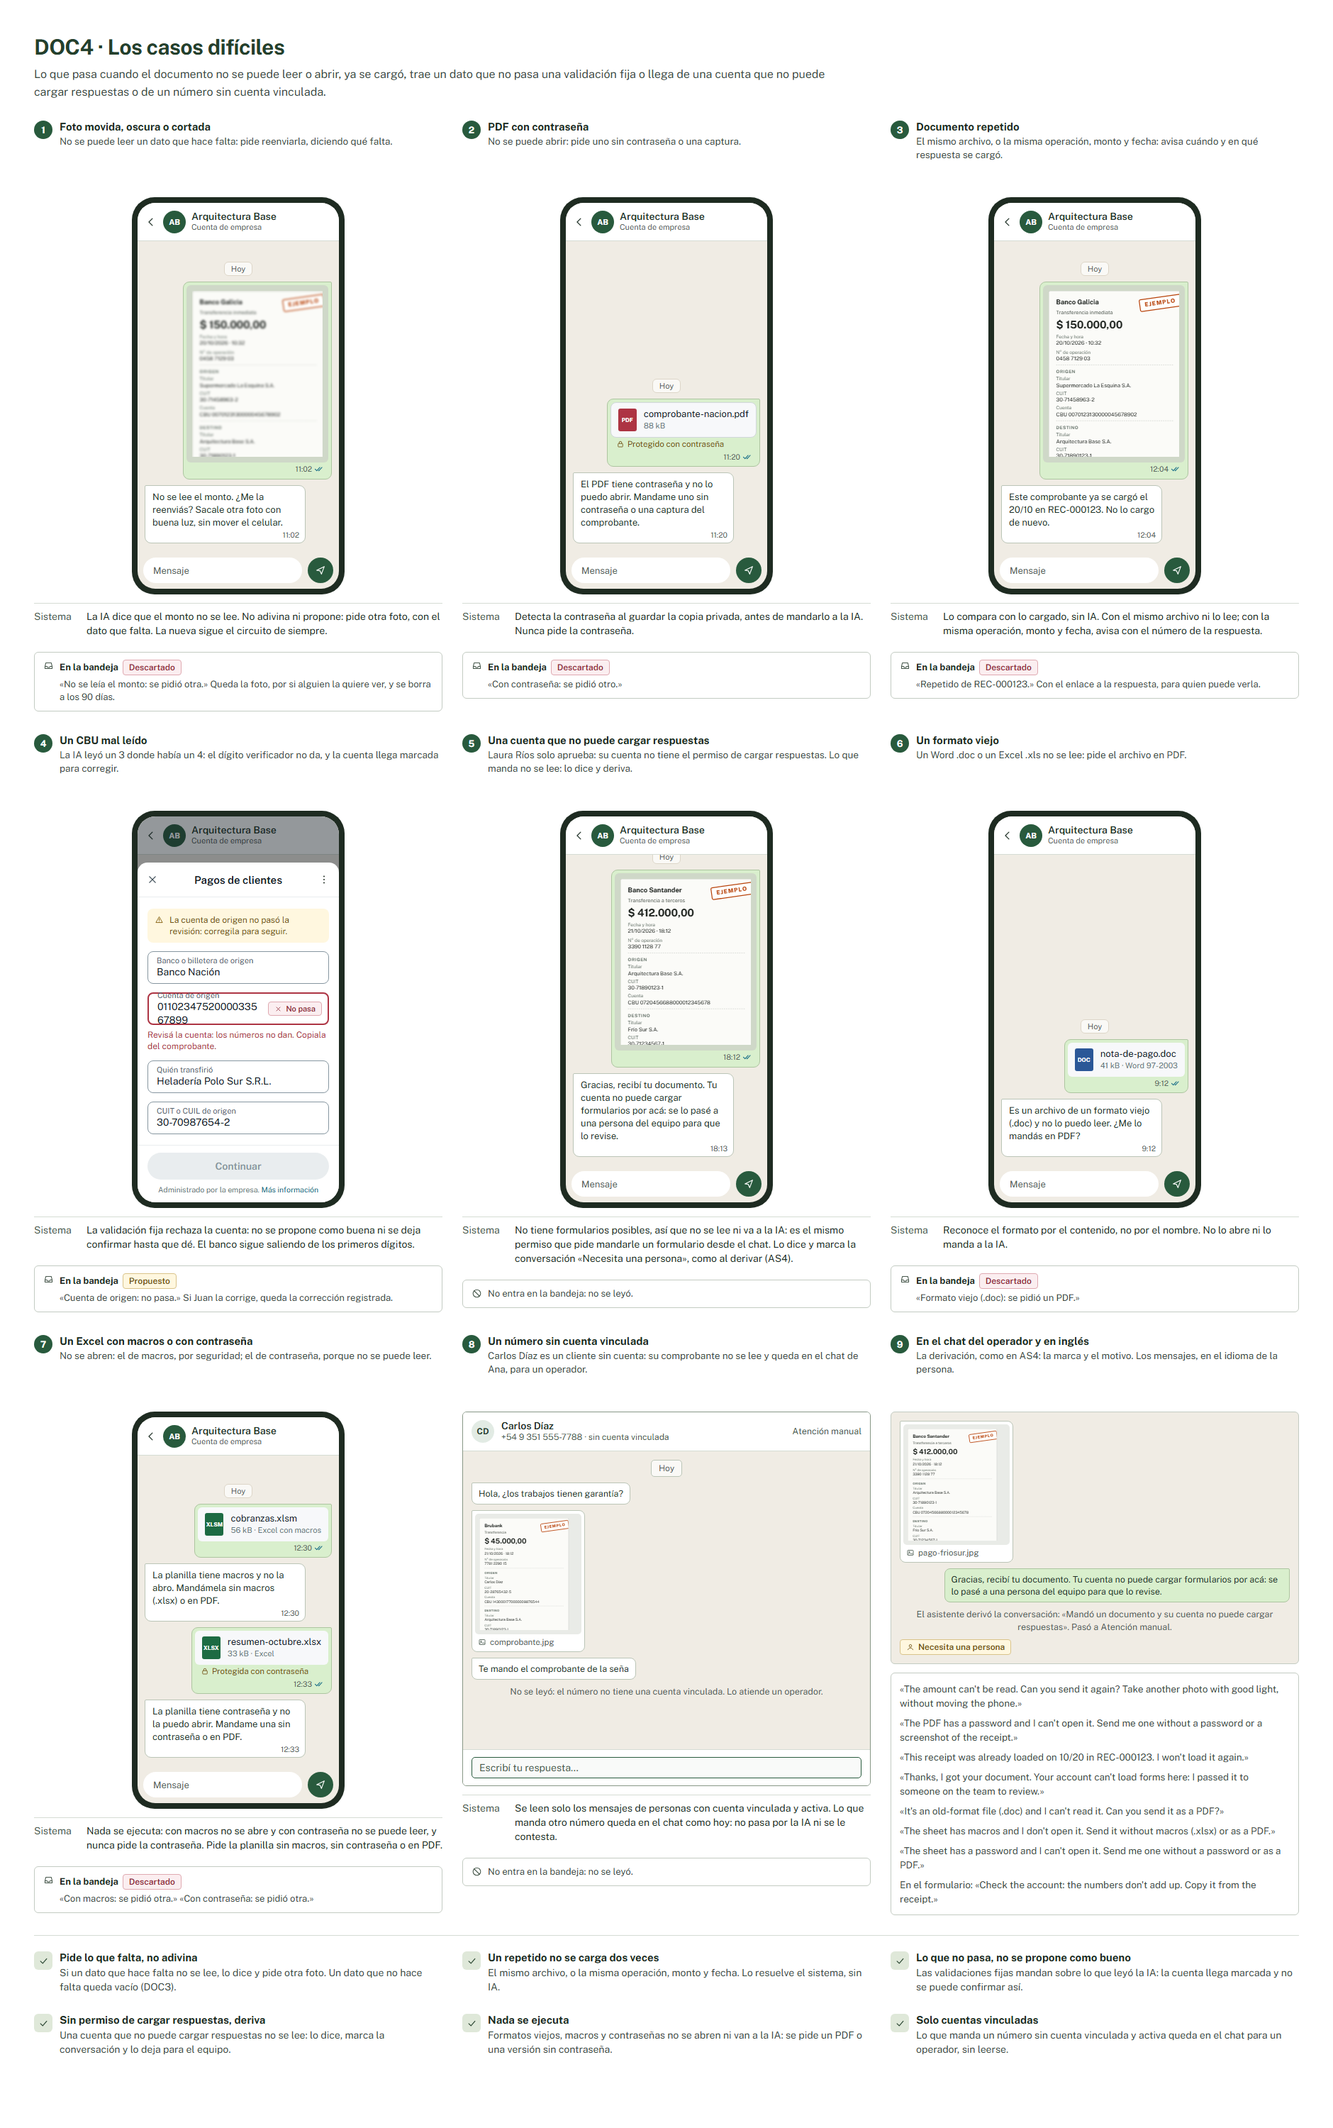
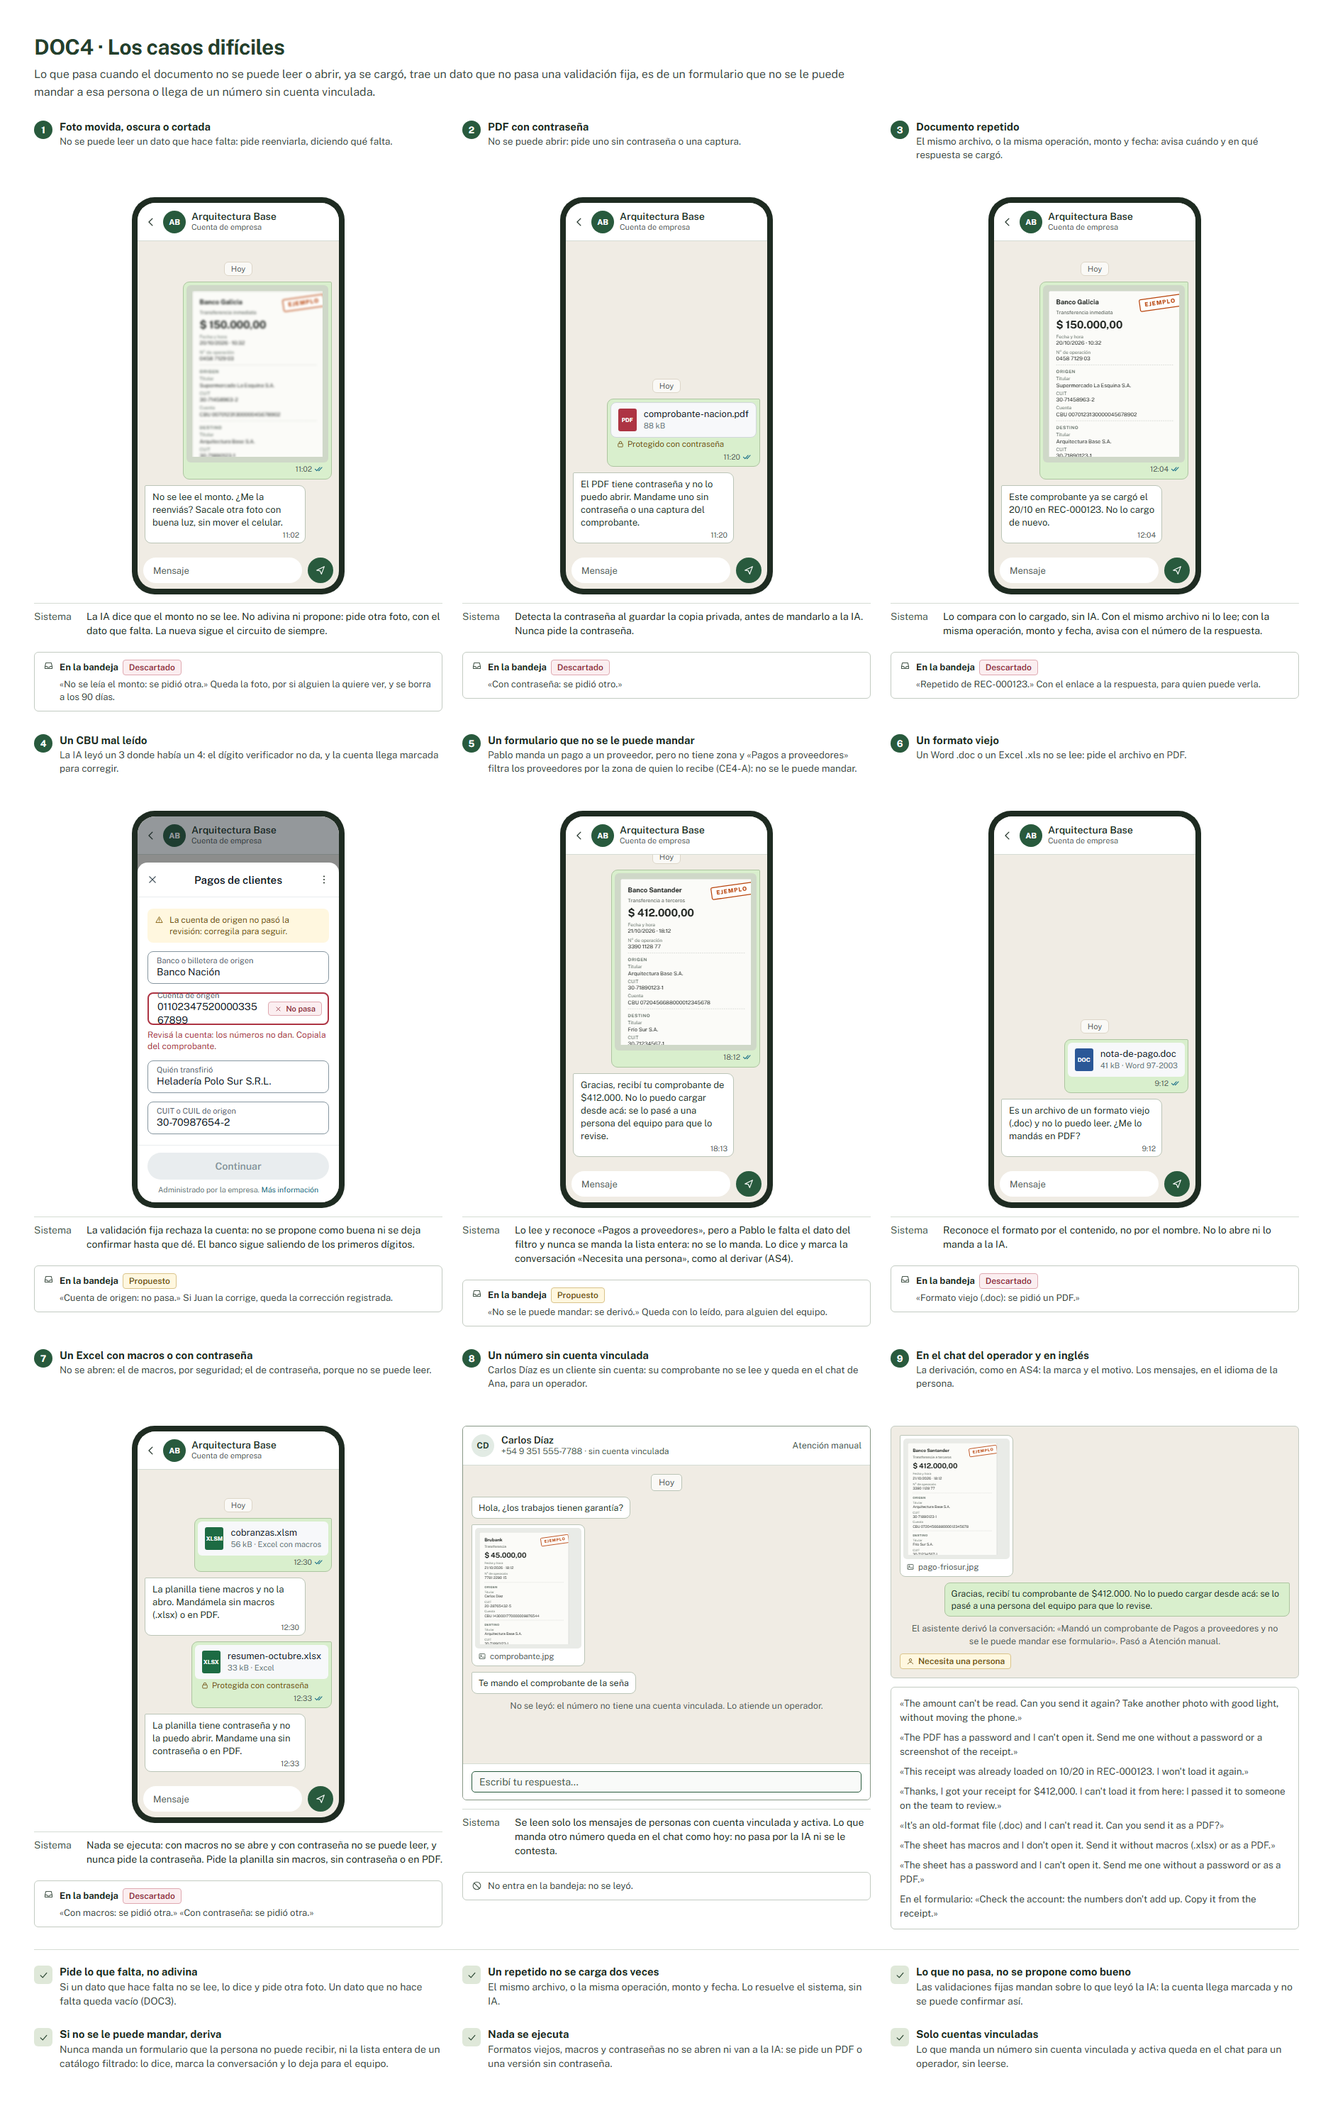
docs(documentos): dejar DOC2 y DOC4 como quedaron en el plan
DOC4 vuelve a mostrar el formulario que no se le puede mandar a la persona
(Pablo, sin zona, con «Pagos a proveedores»); la cuenta sin permiso de
cargar respuestas queda en el plan y no se dibuja. «Para revisar acá» junta
los propuestos vencidos y las filas que pasaron el tope. Las capturas de
DOC2 y DOC4 son las de la versión 119 del lienzo.

diff --git a/docs/design/documentos.md b/docs/design/documentos.md
@@ -1,7 +1,8 @@
 # Documentos por WhatsApp: tableros elegidos
 
 Fecha: **2026-10-22**. **Elegidos DOC5-A y DOC7-A, con DOC1–DOC4 y DOC6**, de la versión 116 del lienzo; la 117 los marca
-y suma las correcciones al elegir (abajo), y la 118 agranda DOC5-A para que entren sus notas. Por programar.
+y suma las correcciones al elegir (abajo), la 118 agranda DOC5-A para que entren sus notas y la 119 deja DOC2 y DOC4 como
+quedaron en el plan. Por programar.
 
 Origen: la sección «Documentos por WhatsApp · biblioteca, lectura con IA, bandeja y tablero» de la página «Formularios por
 WhatsApp» del Artifact [Sistema visual — ArquitecturaBase](https://claude.ai/artifact/HPbmDPLnr8JZ9TxevtTqJJ). Como el
@@ -15,15 +16,16 @@ lo muestra dentro de las pantallas reales y tiene el circuito DOC en «Recorrido
 
 DOC5 y DOC7 tenían dos conceptos. **Se eligieron DOC5-A**, la bandeja como planilla con el documento en un panel al
 costado, **y DOC7-A**, el tablero de tarjetas que se arma solo. DOC5-B, la cola de revisión, y DOC7-B, un informe por
-pregunta, quedan en el lienzo como las alternativas que no se eligieron. DOC1–DOC4 y DOC6 tenían un solo concepto y valen
-para los elegidos: el aviso de los documentos parecidos de DOC6 va arriba de la planilla de DOC5-A.
+pregunta, son las alternativas que no se eligieron: se sacaron del lienzo para hacer lugar y siguen en el repo del
+generador. DOC1–DOC4 y DOC6 tenían un solo concepto y valen para los elegidos: el aviso de los documentos parecidos de DOC6
+va arriba de la planilla de DOC5-A.
 
 | Captura | Qué define |
 | --- | --- |
 | [DOC1 · La biblioteca y la lectura](evidence/documentos/doc1-la-biblioteca-y-la-lectura.png) | **Elegido el 2026-10-22.** «Biblioteca», una pantalla nueva en Gestión de formularios, junto a Diseñar formularios: los formularios estándar del producto, hoy «Comprobante de transferencia», y los de las etapas siguientes como «Próximamente», sin acción. Cada estándar dice qué lee, sus validaciones fijas, su versión y en qué formularios propios está; se filtra por todos, disponibles o próximamente y se busca por nombre, en la dirección. «Agregar» pide el nombre y el prefijo y crea una copia propia en borrador; se puede agregar más de una vez («Pagos a proveedores» es otra copia del mismo estándar). En el editor, la sección **«Lectura de documentos»**: prenderla; de qué estándar y versión viene; «Cómo reconocerlo», la descripción para la IA, donde lo propio (de quién es la cuenta de destino) separa dos copias; los ejemplos, que suman las correcciones de la bandeja sin entrenar ningún modelo; qué pregunta recibe cada dato (cambiarle el nombre a una no corta la lectura; un dato sin pregunta no se lee); las validaciones fijas del estándar, con candado (los dígitos del CBU, el CVU y el CUIT; el banco sale de los primeros dígitos de la cuenta, con la tabla del BCRA como datos); el cruce con catálogos (Cliente por el CUIT de origen, en Clientes); los duplicados y cómo viene leyendo, por formulario y por dato. Un formulario propio sin estándar usa el mismo mecanismo, sin candados. Prender o cambiar la lectura se guarda en el borrador y sale al publicar. Pide «Diseñar formularios». |
-| [DOC2 · Los tres casos y los otros formatos](evidence/documentos/doc2-los-tres-casos-y-los-otros-formatos.png) | **Elegido el 2026-10-22.** Juan manda el comprobante por WhatsApp, con texto o sin él. Se lee solo lo de cuentas vinculadas y activas con permiso de cargar respuestas, y se clasifica entre los formularios con lectura que esa persona puede completar. **Seguro:** «Recibí un comprobante de transferencia de $150.000 del Galicia. ¿Lo cargo?» con «Abrir formulario», prellenado y con el comprobante adjunto. **Duda:** «¿Qué es este documento?» con hasta 3 botones; con dos posibles, el tercero es «Otro», y con la elección sigue como el seguro. **No lo reconoce:** «No reconocí este documento. ¿Qué querés cargar con él?» con la lista de lo que esa persona puede completar y «Otro», que lo deja «Sin clasificar» y lo anota en Formularios que faltan. El sistema guarda la foto como copia privada y valida sin IA el CBU, el CUIT y los duplicados; en el chat del operador el documento es un mensaje más, con «Por qué lo propuso» o «Por qué preguntó» debajo, como en AS4. **Los otros formatos:** un PDF (se lee entero, hasta el tope), un Word y un Excel con varias filas, donde cada fila es una carga; la ubicación y el contacto que se comparten no pasan por la IA y completan las preguntas elegidas en el editor del formulario abierto («Dirección de entrega», «Recibió» y «Teléfono de quien recibe» en «Registrar entrega»), que se vuelve a mandar. Los mensajes van en el idioma de la persona. |
+| [DOC2 · Los tres casos y los otros formatos](evidence/documentos/doc2-los-tres-casos-y-los-otros-formatos.png) | **Elegido el 2026-10-22.** Juan manda el comprobante por WhatsApp, con texto o sin él. Se lee solo lo de cuentas vinculadas y activas con permiso de cargar respuestas, y se clasifica entre los formularios con lectura que esa persona puede completar; si el que encaja no se le puede mandar, lo dice y deriva (DOC4). **Seguro:** «Recibí un comprobante de transferencia de $150.000 del Galicia. ¿Lo cargo?» con «Abrir formulario», prellenado y con el comprobante adjunto. **Duda:** «¿Qué es este documento?» con hasta 3 botones; con dos posibles, el tercero es «Otro», y con la elección sigue como el seguro. **No lo reconoce:** «No reconocí este documento. ¿Qué querés cargar con él?» con la lista de lo que esa persona puede completar y «Otro», que lo deja «Sin clasificar» y lo anota en Formularios que faltan. El sistema guarda la foto como copia privada y valida sin IA el CBU, el CUIT y los duplicados; en el chat del operador el documento es un mensaje más, con «Por qué lo propuso» o «Por qué preguntó» debajo, como en AS4. **Los otros formatos:** un PDF (se lee entero, hasta el tope), un Word y un Excel con varias filas, donde cada fila es una carga; la ubicación y el contacto que se comparten no pasan por la IA y completan las preguntas elegidas en el editor del formulario abierto («Dirección de entrega», «Recibió» y «Teléfono de quien recibe» en «Registrar entrega»), que se vuelve a mandar. Los mensajes van en el idioma de la persona. |
 | [DOC3 · El formulario prellenado](evidence/documentos/doc3-el-formulario-prellenado.png) | **Elegido el 2026-10-22.** El Flow de siempre, completo con lo leído y el aviso «Lo completamos con el comprobante que mandaste. Revisá lo marcado antes de confirmar.»: lo dudoso, con «Revisá» y el borde de atención; lo que no se leyó, vacío con «No se leyó» (si la pregunta es obligatoria, no deja confirmar); el comprobante, ya adjunto en su pregunta de documento, con «Cambiar documento». Al confirmar se vuelven a revisar el CBU, el CVU, el CUIT y los duplicados con lo corregido; lo que no pasa no se guarda y dice por qué («Revisá la cuenta: los números no dan. Copiala del comprobante.»). Cada corrección queda registrada: el dato propuesto, el confirmado y quién. En el chat, la tarjeta de siempre, con el comprobante como archivo de la respuesta; en el detalle, la lectura: qué reconoció, qué se corrigió o completó y qué se validó sin IA. |
-| [DOC4 · Los casos difíciles](evidence/documentos/doc4-los-casos-dificiles.png) | **Elegido el 2026-10-22.** Una foto movida, oscura o cortada: no adivina, pide otra diciendo qué dato falta. Un PDF con contraseña: no se abre ni se pide la contraseña; pide uno sin contraseña o una captura. Un repetido (el mismo archivo, o la misma operación, monto y fecha): avisa cuándo y en qué respuesta se cargó, sin IA. Un CBU mal leído: la validación fija lo rechaza y la cuenta llega marcada; no se puede confirmar así. **Una cuenta que no puede cargar respuestas**, como Laura, que solo aprueba: no tiene formularios posibles, así que no se lee ni va a la IA; contesta «Gracias, recibí tu documento. Tu cuenta no puede cargar formularios por acá: se lo pasé a una persona del equipo para que lo revise.», deriva la conversación como en AS4 y no entra en la bandeja. Un Word o un Excel de formato viejo, un Excel con macros o con contraseña: no se abren ni van a la IA, y se pide un PDF o una versión sin macros ni contraseña. **Un número sin cuenta vinculada**, como Carlos Díaz: no se lee ni se le contesta; queda en el chat para un operador, con la línea «No se leyó: el número no tiene una cuenta vinculada. Lo atiende un operador.», y no entra en la bandeja. |
+| [DOC4 · Los casos difíciles](evidence/documentos/doc4-los-casos-dificiles.png) | **Elegido el 2026-10-22.** Una foto movida, oscura o cortada: no adivina, pide otra diciendo qué dato falta. Un PDF con contraseña: no se abre ni se pide la contraseña; pide uno sin contraseña o una captura. Un repetido (el mismo archivo, o la misma operación, monto y fecha): avisa cuándo y en qué respuesta se cargó, sin IA. Un CBU mal leído: la validación fija lo rechaza y la cuenta llega marcada; no se puede confirmar así. **Un formulario que no se le puede mandar**, como «Pagos a proveedores» a Pablo, que no tiene zona: el documento se lee y se reconoce, pero a la persona le falta el dato con el que se filtra el catálogo (CE4-A) y nunca se manda la lista entera; contesta «Gracias, recibí tu comprobante de $412.000. No lo puedo cargar desde acá: se lo pasé a una persona del equipo para que lo revise.», deriva la conversación como en AS4 y el documento queda propuesto, con lo leído, para alguien del equipo. Un Word o un Excel de formato viejo, un Excel con macros o con contraseña: no se abren ni van a la IA, y se pide un PDF o una versión sin macros ni contraseña. **Un número sin cuenta vinculada**, como Carlos Díaz: no se lee ni se le contesta; queda en el chat para un operador, con la línea «No se leyó: el número no tiene una cuenta vinculada. Lo atiende un operador.», y no entra en la bandeja. |
 | [DOC5-A · La planilla con panel](evidence/documentos/doc5-a-la-planilla-con-panel.png) | **Elegido el 2026-10-22.** «Documentos recibidos», debajo de Formularios en el panel de Gestión de formularios, con cuántos esperan a alguien del equipo. Una planilla como la de respuestas: cada documento es una fila con su miniatura, cuándo llegó, quién lo mandó, el formulario, los datos leídos que sirven para encontrarlo (monto, banco o CUIT), el estado y la respuesta. Se busca por monto (con o sin puntos), CUIT u operación, también en lo que no se cargó; se filtra por formulario, quién lo mandó, cuándo llegó y estado (propuesto, sin clasificar, confirmado o descartado, con cuántos hay), y todo vive en la dirección, con la página y el documento abierto. Un sin clasificar o un descartado se borra a los 90 días, con su lectura, y su fila dice cuándo. El documento se abre en un panel al costado, como la vista rápida D2: arriba el documento (acercar, girar, páginas y descargar); abajo el formulario que reconoció la IA, con su seguridad (cambiarlo vuelve a leer los datos para ese formulario), los datos, el historial, «Descartar», con confirmación y que se puede volver a abrir, y «Pasar al formulario», que guarda la respuesta con lo revisado, deja registradas las correcciones y pasa el documento a «Confirmado», con su número. ↑ ↓ recorren la planilla. **Para revisar acá** queda un propuesto que venció sin que la persona lo confirmara en WhatsApp, como el comprobante del Macro que mandó Pablo. En el celular, la tabla se desplaza de costado y el documento abre en su pantalla, con las acciones abajo. Dos permisos nuevos: «Ver documentos recibidos» y «Revisar documentos» (corregir, pasar al formulario y descartar); con solo ver, el documento y sus datos se ven sin poder cambiarlos. La respuesta dice en su origen de qué documento salió y quién la revisó. |
 | [DOC6 · Armar formulario con la IA](evidence/documentos/doc6-armar-formulario-con-la-ia.png) | **Elegido el 2026-10-22.** Para lo que no encaja en ningún formulario: desde el aviso de los parecidos («Llegaron 5 documentos parecidos que no encajan en ningún formulario: tickets de combustible. ¿Armamos un formulario?») o desde un sin clasificar, en su panel. La IA propone el formulario entero: el nombre, el prefijo, el texto del botón, «Cómo reconocerlo» y una pregunta por cada dato que se repite, con su tipo y lo que leyó en el primero para comparar; se cambian, se quitan o se suman, con los documentos que lo originaron a la vista. Si se parece a un estándar de la biblioteca, lo sugiere antes («Agregar el estándar» o «Armar igual con la IA»). «Crear borrador» lo crea con la lectura prendida y abre el editor; se publica como cualquiera, con su comprobación, y la IA nunca publica ni aprueba (ADR 0019). Al publicar, esos documentos quedan propuestos en la bandeja y los próximos se reconocen solos. Mientras arma se puede salir y volver; si falla, no queda nada a medias. Pide «Revisar documentos» y «Diseñar formularios»; con uno solo, el botón no aparece. |
 | [DOC7-A · Tarjetas armadas solas](evidence/documentos/doc7-a-tarjetas-armadas-solas.png) | **Elegido el 2026-10-22.** La pestaña «Tablero», junto a Respuestas en la página de cada formulario, con el permiso de leer respuestas: quien solo aprueba no la ve. Los filtros son los de la planilla (recibida, quién cargó, estado y cualquier pregunta), viven en la dirección y se comparten con Respuestas; lo que va por período se agrupa por día, semana o mes. Arriba, los números: cuántas llegaron y, de cada pregunta de número o monto, total, promedio, mínimo y máximo, contra el período anterior. Abajo, una tarjeta por gráfico, armada sola con los tipos de las preguntas: cuántas llegaron por período (los días sin actividad, en un tono suave), los montos por período, el reparto de cada pregunta de elegir o de catálogo, quién cargó cuánto y por estado. «Agregar gráfico» ofrece las preguntas que no tienen tarjeta con lo que se puede contar de cada una, y «Volver al automático» lo deja como al principio. El menú de cada tarjeta cambia la cuenta, la muestra como tabla o la quita. Los ajustes son de cada persona, como las columnas de la planilla, y no hay tableros en el código: salen de los tipos de las preguntas y de los valores con tipo de las respuestas. En el celular, una tarjeta debajo de la otra y los filtros en un botón. |
@@ -44,13 +46,16 @@ El plan no lo decía; se resolvió con la opción más simple y quedó confirmad
 
 ## Correcciones al elegir
 
-Al elegir se corrigió quién se lee y el ejemplo de «para revisar acá». La elección no cambia; los tableros (versión 117 del
+Al elegir se corrigió quién se lee y el ejemplo de «para revisar acá». La elección no cambia; los tableros (versión 119 del
 lienzo) y la maqueta ya lo muestran, y las capturas de arriba son las corregidas:
 
 - **Quién se lee (DOC2 y DOC4).** Solo lo de cuentas vinculadas y activas con el permiso de cargar respuestas, el mismo que
-  pide mandarles un formulario desde el chat. La cuenta que no lo tiene es la de alguien que solo aprueba, como Laura: no se
-  lee, lo dice y deriva. El formulario reconocido que no se le puede mandar a una persona (por ejemplo, porque le falta el
-  dato con el que se filtra un catálogo) es otro caso del plan, que no se dibuja: también lo dice y deriva.
+  pide mandarles un formulario desde el chat. Una cuenta sin ese permiso no tiene formularios posibles: no se lee, lo dice y
+  deriva; está en el plan y no se dibuja.
+- **Un formulario que no se le puede mandar (DOC4).** Es un caso aparte: a Pablo, sin zona, no se le puede mandar «Pagos a
+  proveedores», que filtra los proveedores por la zona de quien lo recibe. Su documento se lee y se reconoce; lo dice y
+  deriva, y nunca se manda la lista entera.
 - **Un número sin cuenta vinculada (DOC4).** Carlos Díaz queda en el chat de Ana, sin leerse, para un operador.
-- **Para revisar acá (DOC5-A).** El ejemplo es un propuesto que venció sin que la persona lo confirmara en WhatsApp: el
-  comprobante del Macro de Pablo. Lo pasa al formulario alguien con «Revisar documentos».
+- **Para revisar acá (DOC5-A).** Junta los propuestos que vencieron sin que la persona los confirmara en WhatsApp, como el
+  comprobante del Macro de Pablo, y las filas de una planilla que pasaron el tope. Los pasa al formulario alguien con
+  «Revisar documentos».
